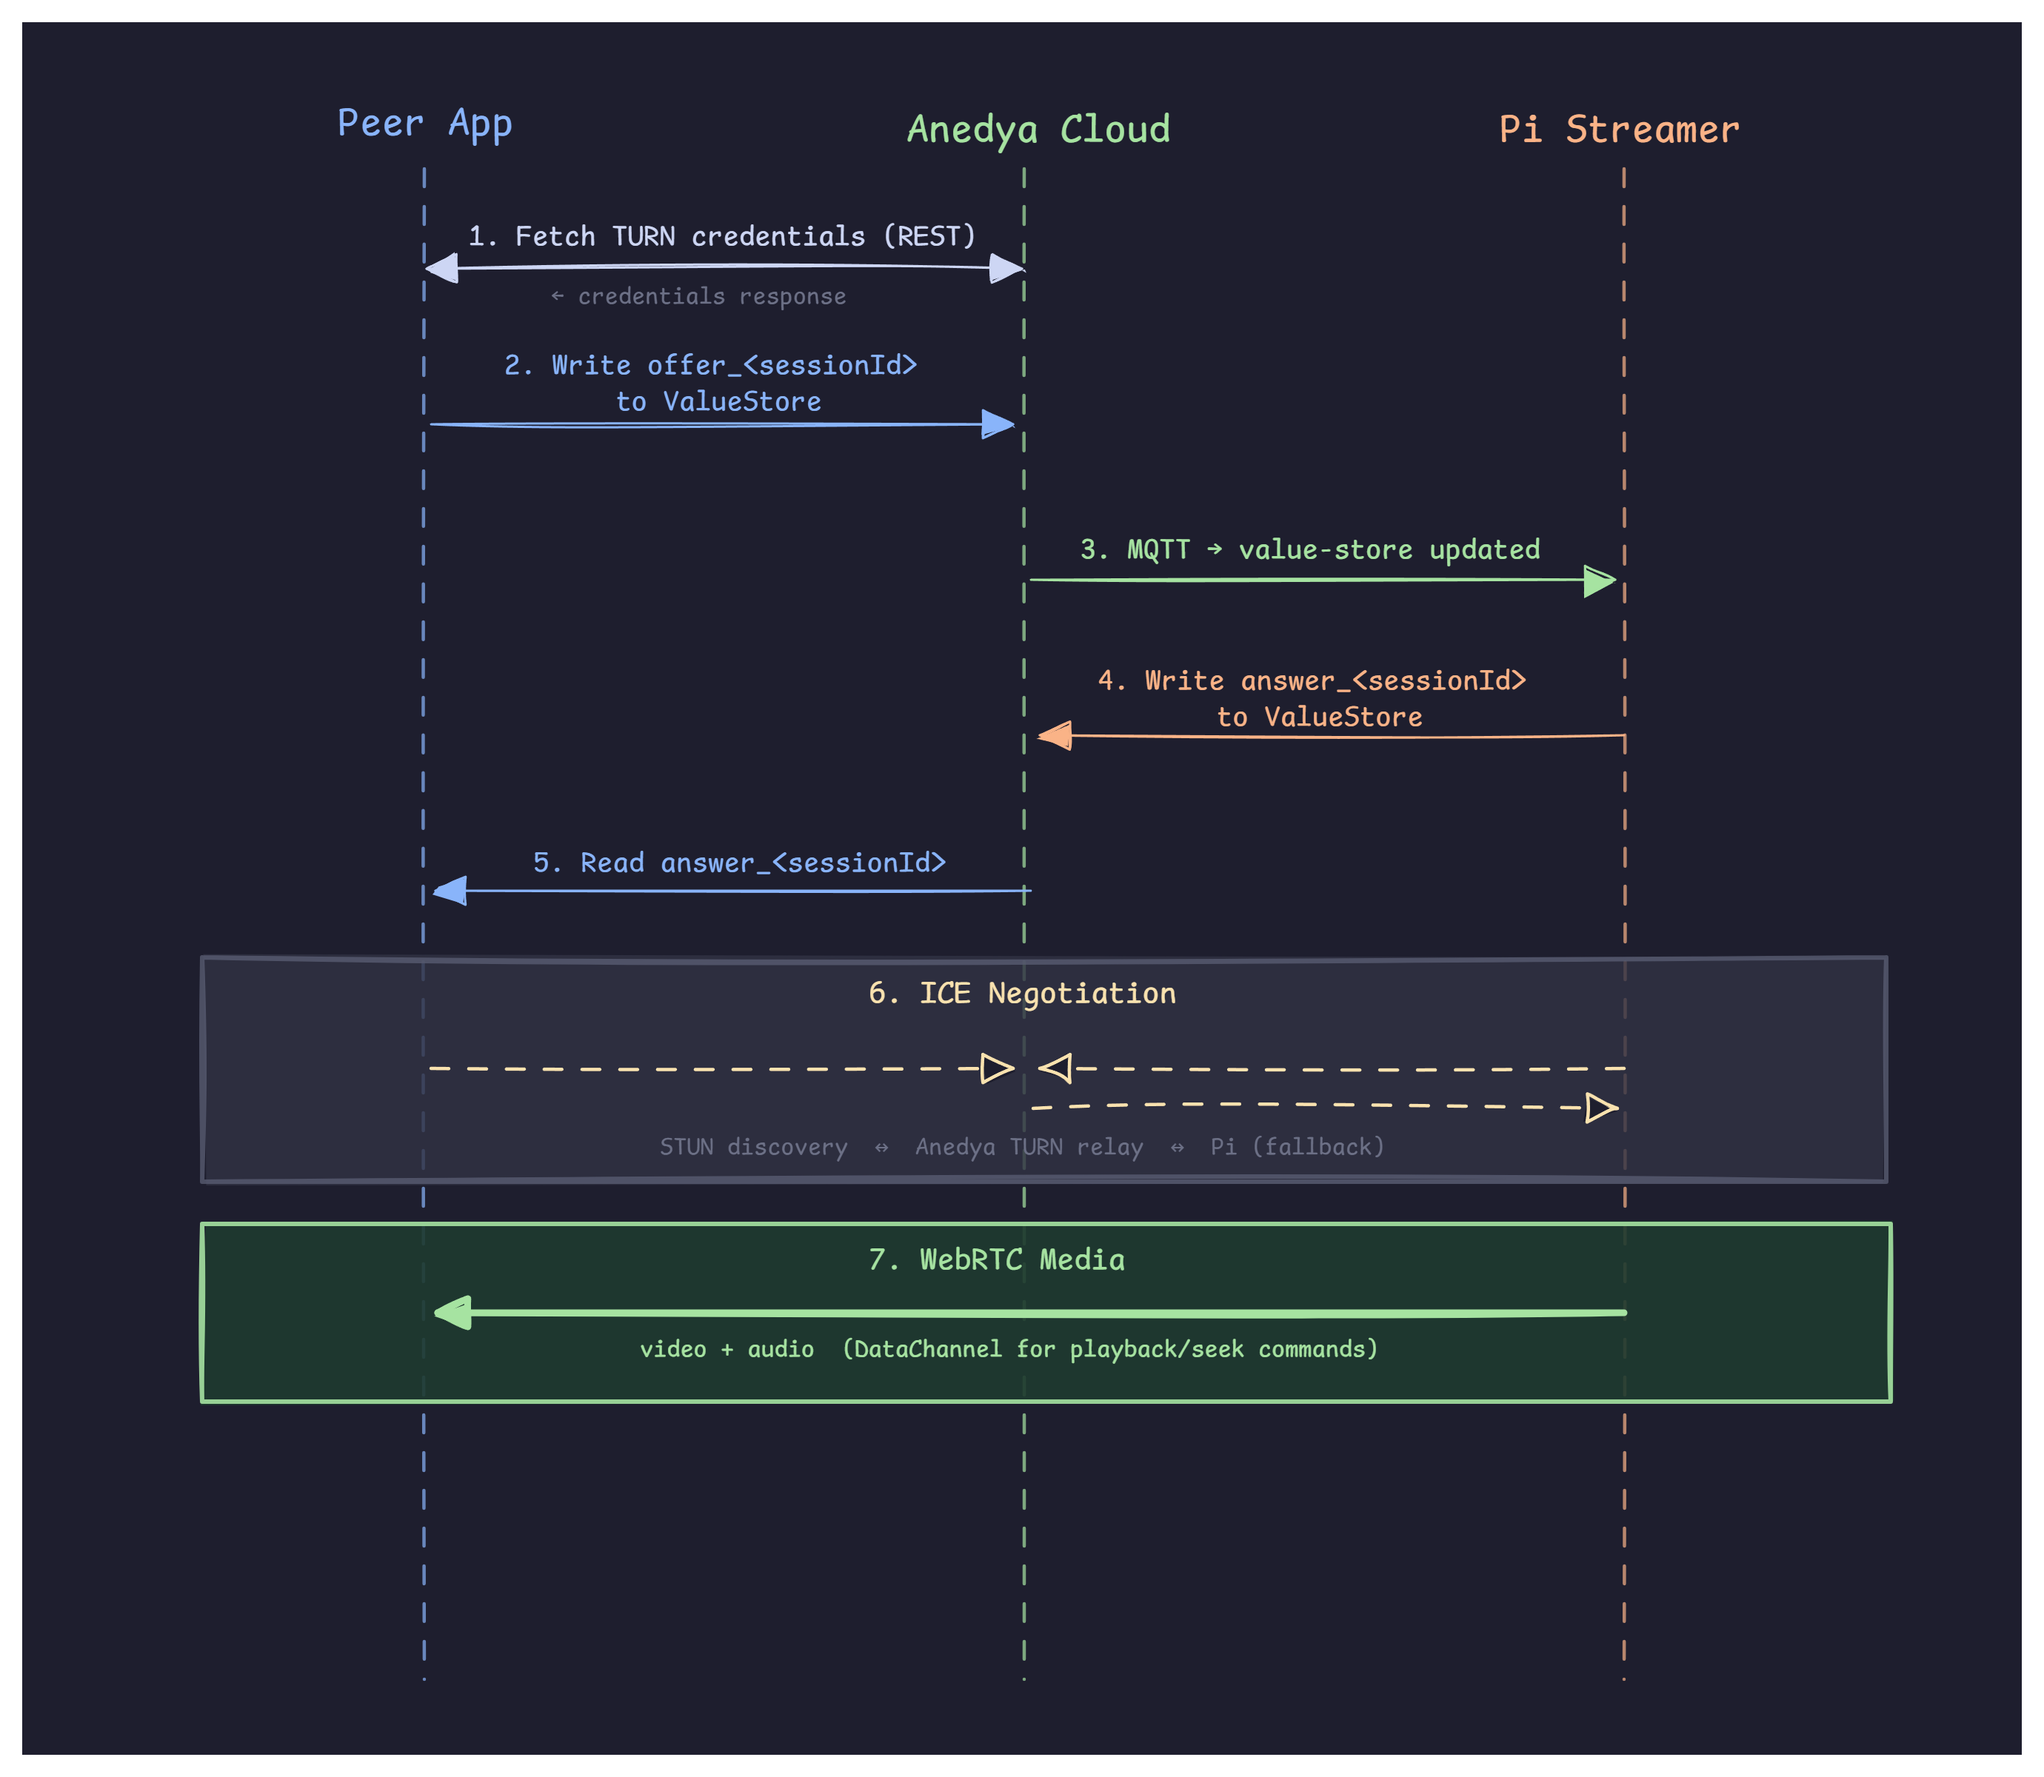
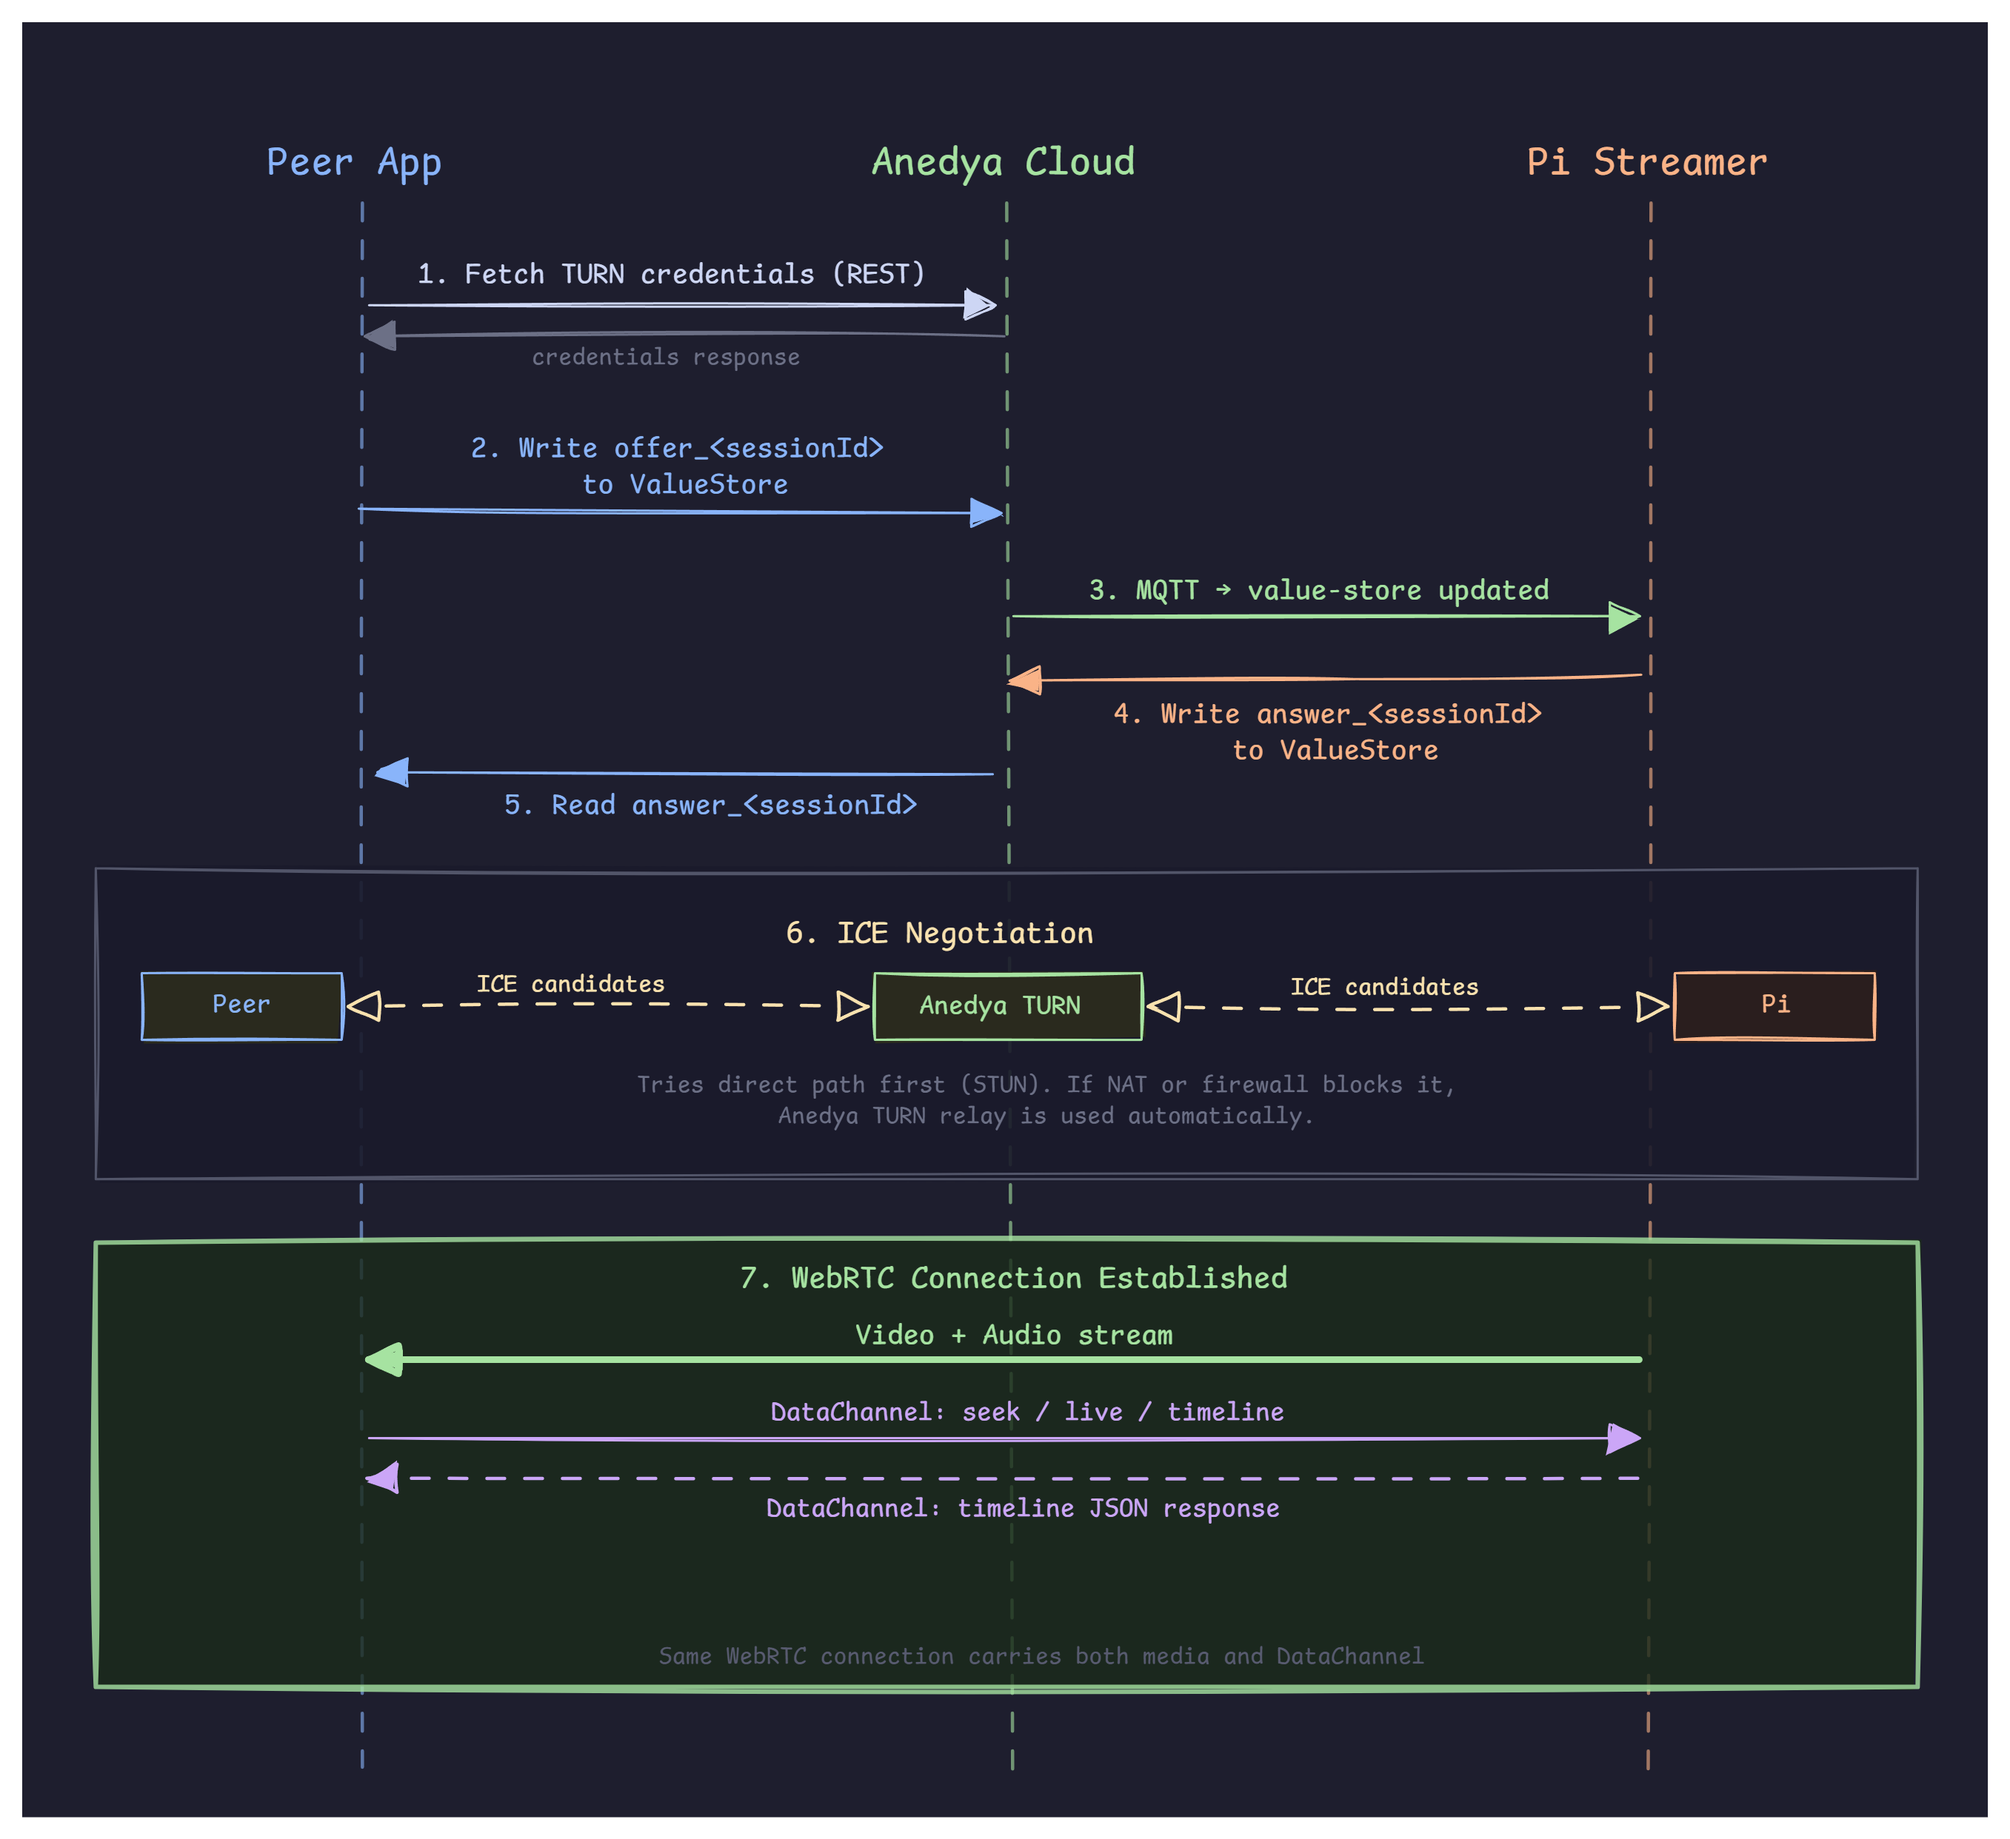
Improve Infographics

diff --git a/README.md b/README.md
@@ -1,6 +1,6 @@
 [<img src="https://img.shields.io/badge/Anedya-Documentation-blue?style=for-the-badge">](https://docs.anedya.io?utm_source=github&utm_medium=link&utm_campaign=github-examples&utm_content=pi-cam)
 
-# Pi Cam — CCTV Camera with Anedya + WebRTC
+# Pi Cam - CCTV Camera with Anedya + WebRTC
 
 <p align="center">
     <img src="https://cdn.anedya.io/anedya_black_banner.png" alt="Logo">
@@ -26,19 +26,6 @@ Turn a Raspberry Pi into a CCTV-style camera system using Anedya for signaling a
 
 WebRTC requires both peers to exchange SDP offers and answers before media can flow. This example uses Anedya ValueStore as a signaling channel and Anedya MQTT as the notification mechanism.
 
-<!-- TODO: Signaling sequence diagram
-     Draw a vertical sequence diagram with three columns: Peer App | Anedya Cloud | Pi Streamer
-     Arrows (left to right unless noted):
-       1. Peer → Anedya REST: fetch TURN credentials
-       2. Peer → Anedya ValueStore: write offer_<sessionId>
-       3. Anedya MQTT → Pi: notify value-store update
-       4. Pi → Anedya ValueStore: write answer_<sessionId>
-       5. Peer polls ValueStore → reads answer_<sessionId>
-       6. ICE negotiation (peer ↔ STUN/TURN ↔ Pi, bidirectional dashed arrows)
-       7. WebRTC media flows directly peer ↔ Pi (thick solid arrow)
-     Place this image below this comment block.
--->
-
 ```
 Peer App
   │  1. Fetch TURN credentials (Anedya REST API)
@@ -60,8 +47,6 @@ Peer App
     <img src="media/flow.png" alt="STUN direct connection diagram">
 </p>
 
-
-
 ### WebRTC Connectivity
 
 When both peers are on the same network, ICE resolves a direct path using STUN address discovery:
@@ -80,16 +65,8 @@ When a firewall blocks direct peer-to-peer traffic, Anedya's managed TURN relay 
 
 The Pi records continuously into 5-second MP4 segments on disk. The viewer receives a timeline over the WebRTC DataChannel and can seek into any finalized segment using the same data channel; the Pi reads and streams the file directly.
 
-<!-- TODO: DVR timeline diagram
-     Draw a horizontal timeline strip showing:
-       - A row of labeled boxes: seg_1.mp4 | seg_2.mp4 | seg_3.mp4 | ... | LIVE
-       - An arrow below labeled "scrubber offset (seconds from start)"
-       - A callout on one segment showing: "in-file offset = global_offset - segment.start_offset"
-       - A "LIVE" marker at the right end showing the scrubber snaps here in live mode
-     Place this image below this comment block.
--->
 <p align="center">
-    <img src="media/timeline.png" alt="TURN relay connection diagram">
+    <img src="media/playback.png" alt="TURN relay connection diagram">
 </p>
 
 ---
@@ -129,7 +106,7 @@ The Pi records continuously into 5-second MP4 segments on disk. The viewer recei
 **Software / Accounts**
 - Raspberry Pi OS or any Linux environment
 - Python 3.11+
-- [`uv`](https://docs.astral.sh/uv/guides/projects/) — Python package manager
+- [`uv`](https://docs.astral.sh/uv/guides/projects/) : Python package manager
 - An [Anedya](https://anedya.io?utm_source=github&utm_medium=link&utm_campaign=github-examples&utm_content=pi-cam) account
 
 ---
@@ -180,6 +157,12 @@ ANEDYA_DEVICE_ID=your-device-uuid
 ANEDYA_NODE_ID=your-node-uuid
 ANEDYA_CONNECTION_KEY=your-connection-key
 ANEDYA_REGION=ap-in-1
+```
+
+Install `uv` if not already present:
+
+```bash
+curl -LsSf https://astral.sh/uv/install.sh | sh
 ```
 
 Install Python dependencies:
@@ -283,4 +266,4 @@ This project uses OpenCV `VideoCapture`.
 
 ## License
 
-This project is licensed under the [MIT License](LICENSE).
+This project is licensed under the [Apache License 2.0](LICENSE).
